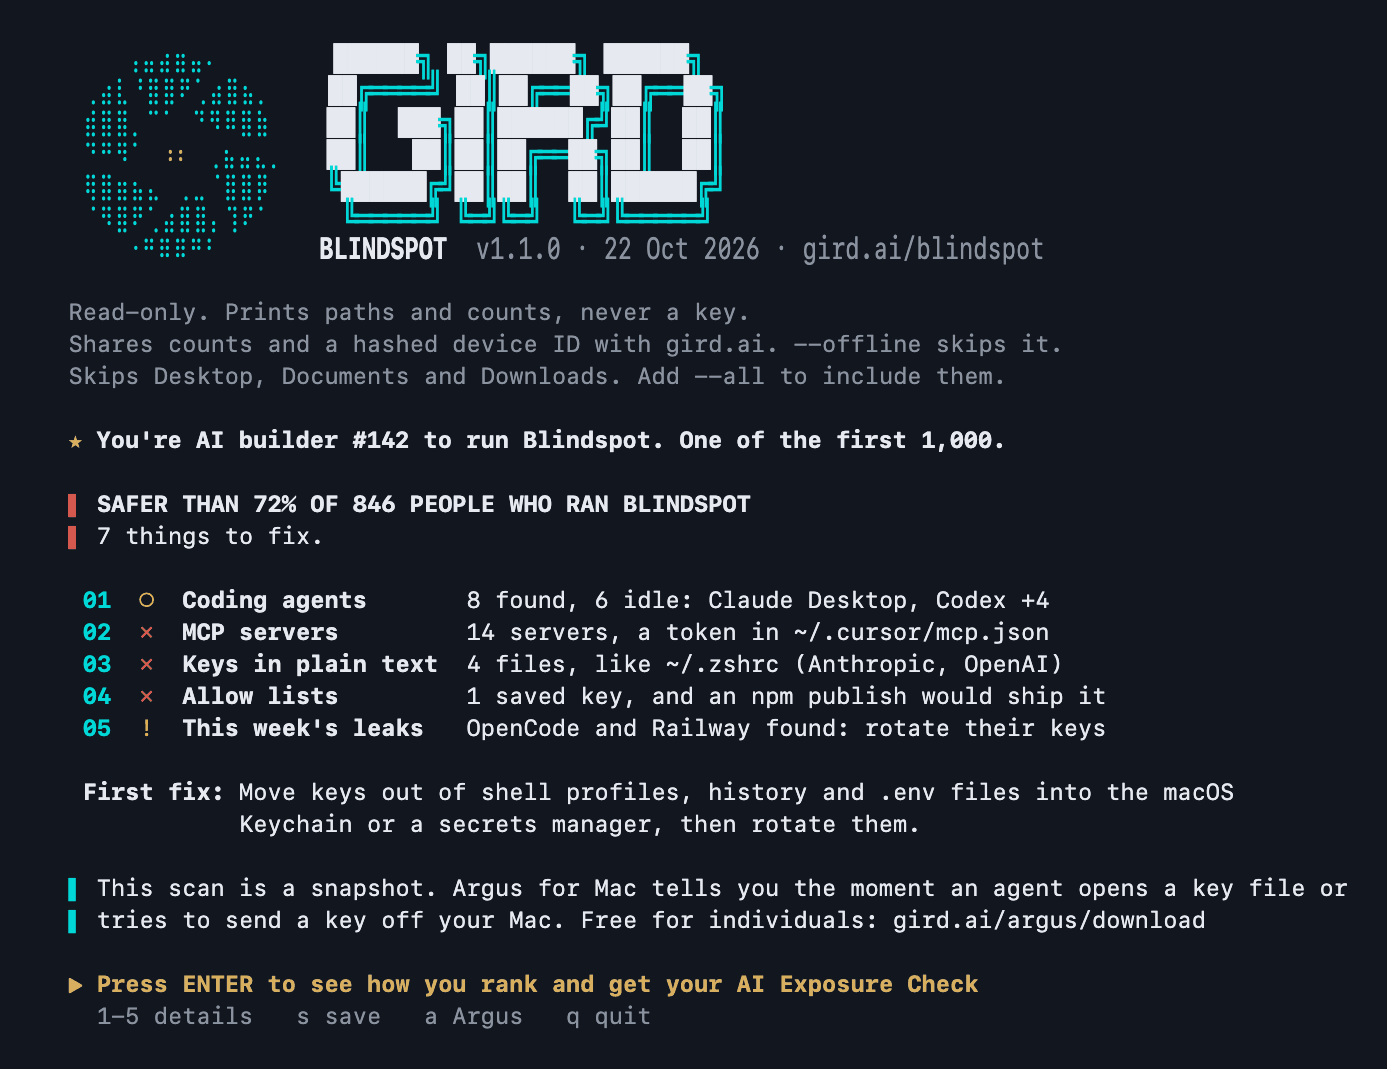
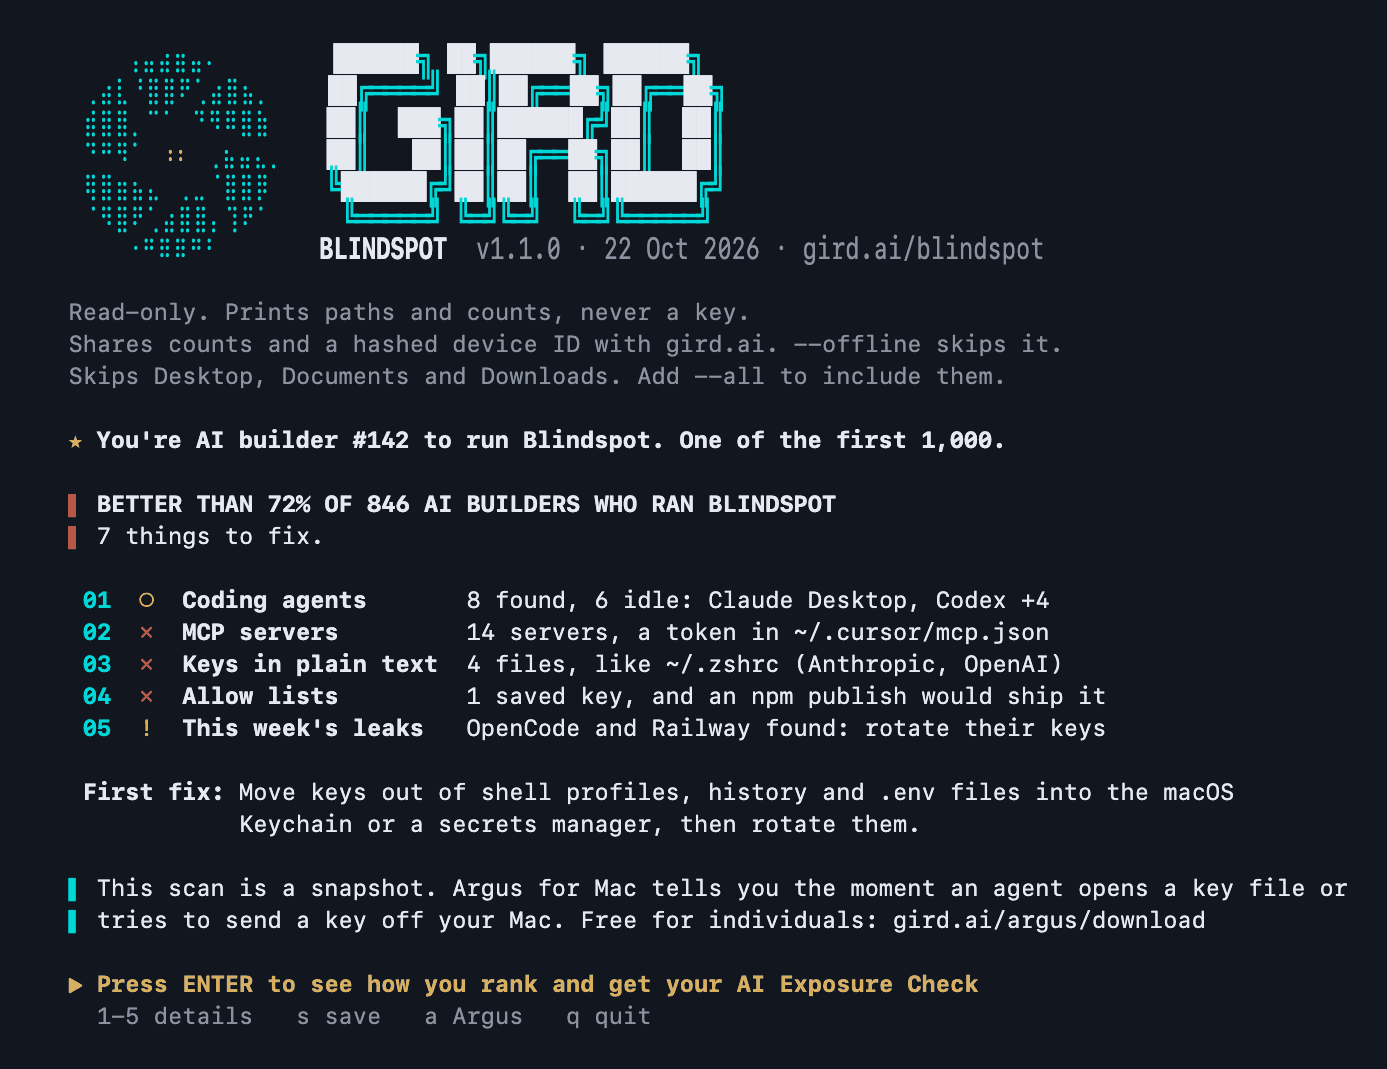
AI builders and Better than in the report, refresh screenshots
The report says "AI builders" where it said "people" and "Better than"
where it said "Safer than", in step with the result page. Screenshots
regenerated.

Changed region(s): [[0.031, 0.463, 0.62, 0.5248]]

diff --git a/README.md b/README.md
@@ -1,5 +1,5 @@
 <p align="center">
-  <a href="docs/report-full.png"><img src="docs/report.png" alt="A Blindspot run in a terminal: safer than 72% of 846 people who ran it, AI builder #142 of the first 1,000, one line per check, and the prompt to get your AI Exposure Check" width="760"></a>
+  <a href="docs/report-full.png"><img src="docs/report.png" alt="A Blindspot run in a terminal: better than 72% of 846 AI builders who ran it, AI builder #142, one of the first 1,000, one line per check, and the prompt to get your AI Exposure Check" width="760"></a>
 </p>
 
 # Blindspot
@@ -43,7 +43,7 @@ Please don't pipe it straight into a shell. Reading it first is the point.
 4. **Keys saved in Claude Code allow lists.** Click "always allow" on a command that has a key in it, and Claude Code saves the whole command in the project's settings file. Blindspot flags each one, and whether an npm publish from that folder would ship it.
 5. **That week's leaks.** Files left by the LiteLLM 1.107.0 malware in every Python environment it finds, the bad package in your uv cache, and what to rotate if you use OpenCode Console, Railway or Zeabur.
 
-At the end you get a short summary: how you compare with the other people who ran it, one line per check, and the first thing to fix. Everyone gets their number, and the first 1,000 are marked. Press 1 to 5 for the details of a check, s to save the full report, or ENTER for your AI Exposure Check: a page with your result, the steps to fix what it found, and an image to post on LinkedIn or X. `--full` prints every detail instead, and so does running it into a file or a pipe.
+At the end you get a short summary: how you compare with the other AI builders who ran it, one line per check, and the first thing to fix. Everyone gets their number, and the first 1,000 are marked. Press 1 to 5 for the details of a check, s to save the full report, or ENTER for your AI Exposure Check: a page with your result, the steps to fix what it found, and an image to post on LinkedIn or X. `--full` prints every detail instead, and so does running it into a file or a pipe.
 
 ## What it never does
 
@@ -55,7 +55,7 @@ At the end you get a short summary: how you compare with the other people who ra
 
 ## What it shares
 
-When it starts, it asks gird.ai for public totals, such as how many people have run it. That request sends nothing else. When it finishes, it sends one report to gird.ai: the counts above, which agents, key providers and well-known MCP servers it saw (from fixed lists, so no name you typed is sent), where keys sit by kind of file, a few facts about your setup such as your terminal app and macOS version, and a hashed device ID so repeat runs can be counted. The reply says how your result compares and your number. The result link carries a random run ID, and the result page sends it back only when you press a share button. Every field is listed in [TELEMETRY.md](TELEMETRY.md). Run it with `--offline`, or set `DO_NOT_TRACK=1`, and it makes no requests at all.
+When it starts, it asks gird.ai for public totals, such as how many AI builders have run it. That request sends nothing else. When it finishes, it sends one report to gird.ai: the counts above, which agents, key providers and well-known MCP servers it saw (from fixed lists, so no name you typed is sent), where keys sit by kind of file, a few facts about your setup such as your terminal app and macOS version, and a hashed device ID so repeat runs can be counted. The reply says how your result compares and your number. The result link carries a random run ID, and the result page sends it back only when you press a share button. Every field is listed in [TELEMETRY.md](TELEMETRY.md). Run it with `--offline`, or set `DO_NOT_TRACK=1`, and it makes no requests at all.
 
 ## GIRD Runner
 

diff --git a/CHANGELOG.md b/CHANGELOG.md
@@ -2,7 +2,7 @@
 
 ## Unreleased
 
-- Wording: the report and the result page say "people" where they said "developers", the early-rank label is "AI builder", and a result with nothing in it reads "No findings in this scan" with a note that it is not a guarantee. What used to be called the certificate is now your "AI Exposure Check": the prompt, the result link and the image say so, and the image no longer says it was verified.
+- Wording: the report and the result page say "AI builders" where they said "developers", "Better than" where they said "Safer than", the early-rank label is "AI builder", and a result with nothing in it reads "No findings in this scan" with a note that it is not a guarantee. What used to be called the certificate is now your "AI Exposure Check": the prompt, the result link and the image say so, and the image no longer says it was verified.
 - Every device gets its number, not only the first 1,000: "You're AI builder #1,234 to run Blindspot." Up to 1,000 it adds "One of the first 1,000."
 - A leftover `cook.pyc` alone is now a "possible leftover" to check, not an act-now hit. `cook.pth`, `cook.py`, the 1.107.0 install record, the marker files or a running loader still are.
 - The spend-limit tip is a plain line under "What to do", no longer a numbered item, so the list matches the "things to fix" count in the header.
